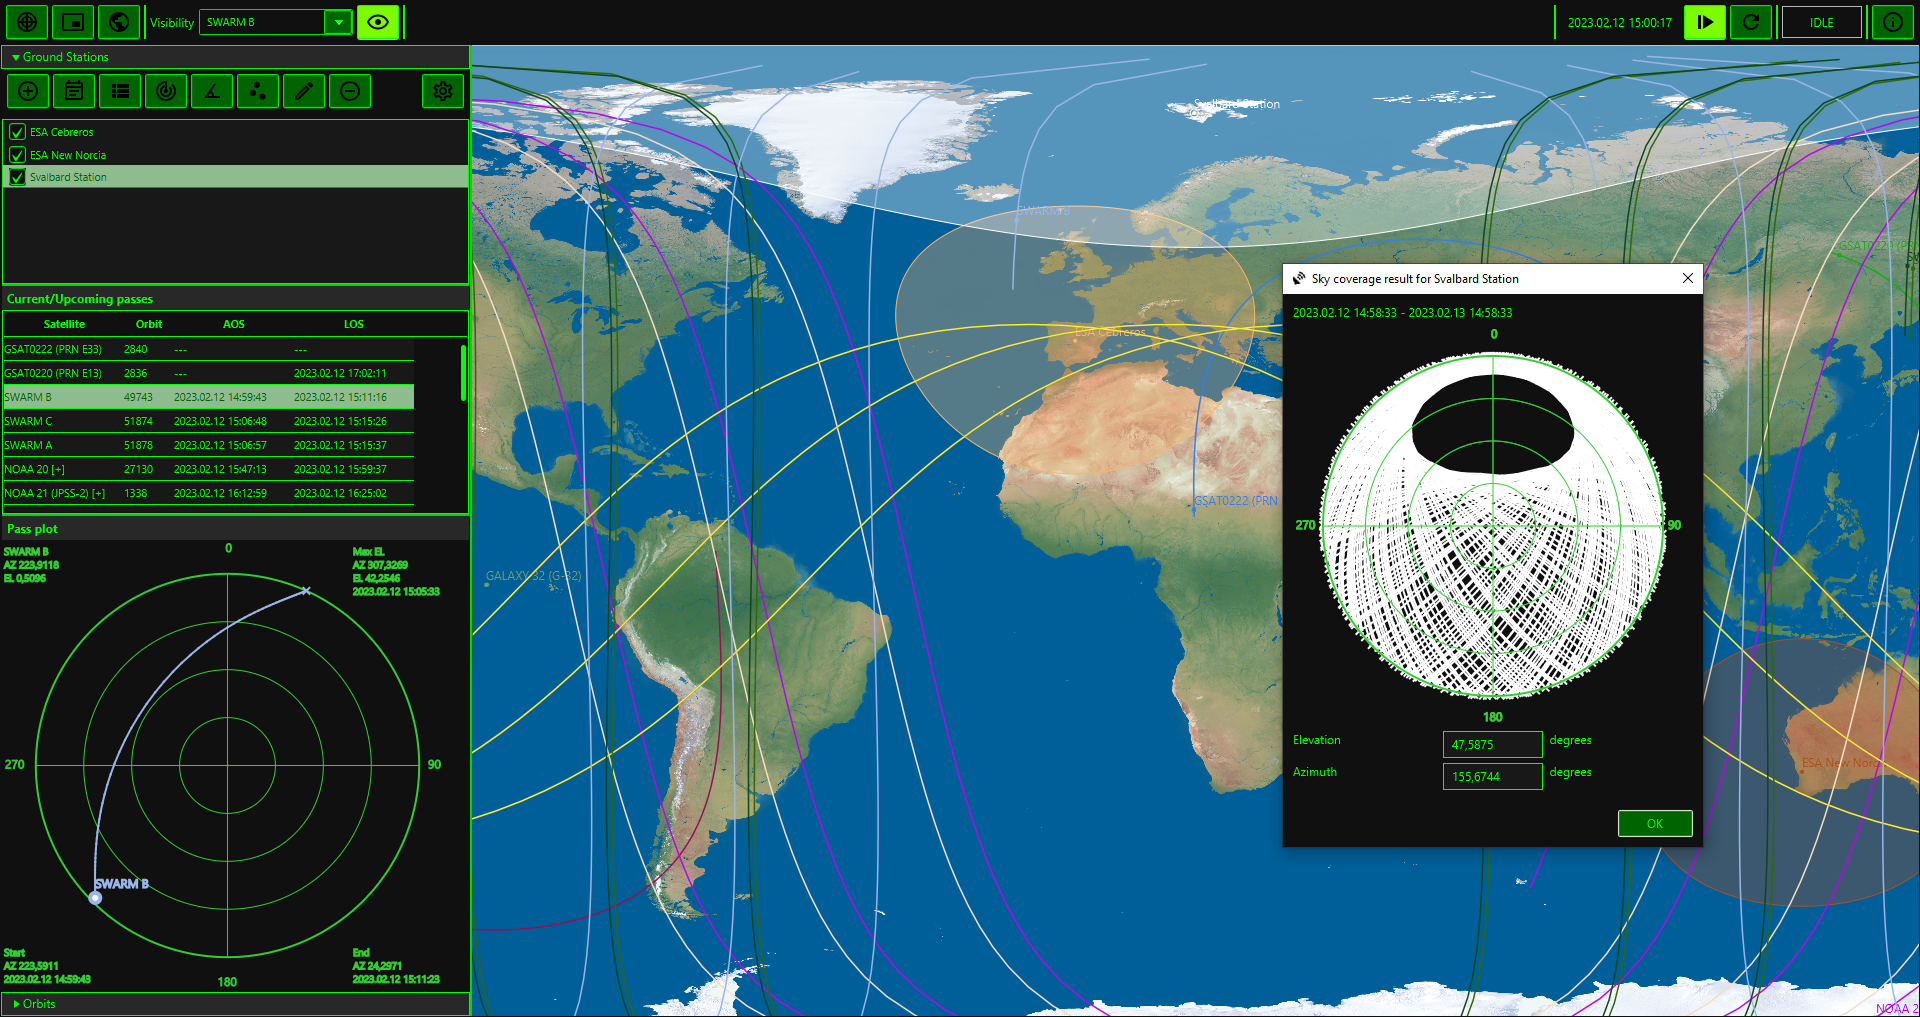
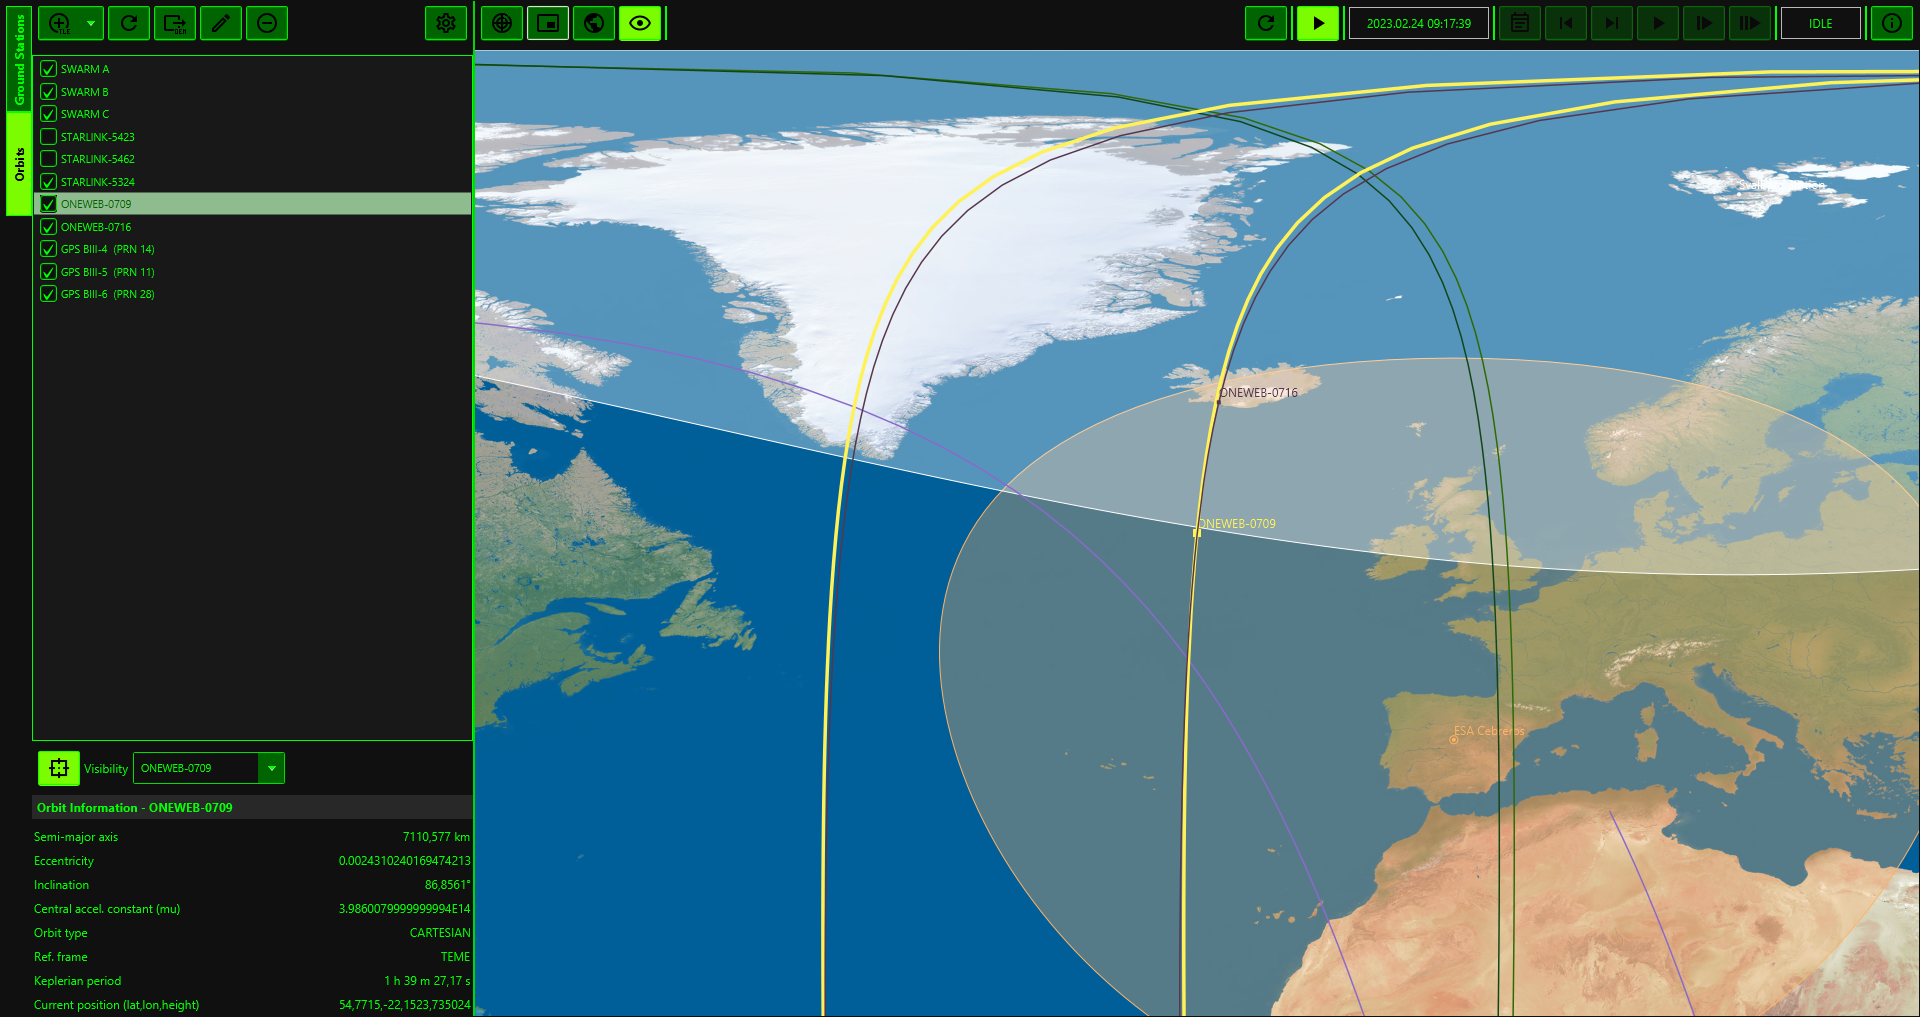
Dr. Orbiteex version 1.0

diff --git a/src/main/java/eu/dariolucia/drorbiteex/fxml/CssHolder.java b/src/main/java/eu/dariolucia/drorbiteex/fxml/CssHolder.java
@@ -22,8 +22,21 @@ import javafx.scene.Parent;
 
 public class CssHolder {
 
-    private static final SimpleStringProperty CSS = new SimpleStringProperty("/eu/dariolucia/drorbiteex/fxml/css/style.css");
-    // private static final SimpleStringProperty CSS = new SimpleStringProperty(null);
+    private static final SimpleStringProperty CSS;
+
+    public static final String DRORBITEEX_CSS_DEFAULT_THEME_KEY = "drorbiteex_css_default_theme";
+
+    static {
+        CSS = new SimpleStringProperty("/eu/dariolucia/drorbiteex/fxml/css/style.css");
+        // Disable the styling if the property below is detected
+        if(System.getProperty(DRORBITEEX_CSS_DEFAULT_THEME_KEY) != null) {
+            CSS.set(null);
+        }
+    }
+
+    private CssHolder() {
+        throw new IllegalCallerException("Not to be called");
+    }
 
     public static ReadOnlyStringProperty CSSProperty() {
         return CSS;

diff --git a/src/main/java/eu/dariolucia/drorbiteex/application/DrOrbiteex.java b/src/main/java/eu/dariolucia/drorbiteex/application/DrOrbiteex.java
@@ -48,7 +48,6 @@ public class DrOrbiteex extends Application {
     private static final String DEFAULT_ORBIT_CONFIG_LOCATION = DEFAULT_CONFIG_FOLDER + File.separator + DEFAULT_ORBIT_CONFIG_FILE_NAME;
     private static final String DEFAULT_GS_CONFIG_FILE_NAME = "groundstations.xml";
     private static final String DEFAULT_GS_CONFIG_LOCATION = DEFAULT_CONFIG_FOLDER + File.separator + DEFAULT_GS_CONFIG_FILE_NAME;
-
     private static final String CONFIG_FOLDER_LOCATION_KEY = "drorbiteex.config";
     private static final String OREKIT_FOLDER_NAME = "orekit-data";
 

diff --git a/README.md b/README.md
@@ -7,20 +7,21 @@ Dr. Orbiteex allows you to:
 - Define the location of your ground stations/points of interest on Earth
 - Import orbital data in the form of TLE (https://en.wikipedia.org/wiki/Two-line_element_set) or CCSDS OEM files (https://public.ccsds.org/Pubs/502x0b2c1e2.pdf), with a direct import
 function from the Celestrak TLE website (https://celestrak.org/NORAD/elements/)
-- Show the path of each orbit on a 3D view and a 2D view and the current location of each 
+- Show the path of each orbit on a 3D view and a 2D view and the current/specified location of each 
 satellite
-- Show the visibility windows over the defined ground stations/points of interest
+- Show the visibility windows over the defined ground stations/points of interest, export such data as CSV
 - Show the visibility circles from the defined ground stations by selecting an orbit of 
 interest
-- Show the tracking data (azimuth/elevation) related to a visibility window
+- Show the tracking data (azimuth/elevation) related to a visibility window, export such data as CSV
 - Export a TLE-based orbit to CCSDS OEM file (KVN and XML)
 - For a ground station/point of interest, export a set of visibility windows in the form of
 CCSDS Simple Schedule file (https://public.ccsds.org/Pubs/902x1b1c1.pdf)
 - Detect collinearity events with reference to a specific satellite/orbit
-- Calculate a sky coverage map for a given ground station/point of interest, with reference to a selectable set of satellites/orbits
+- Calculate sky coverage maps for a given ground station/point of interest, with reference to a selectable set of satellites/orbits
 
 ![AND](img/drorbiteex1.png "Dr. Orbiteex main window")
-![AND](img/drorbiteex2.png "Dr. Orbiteex sky coverage and map view")
+![AND](img/drorbiteex2.png "Dr. Orbiteex map view")
+![AND](img/drorbiteex3.png "Dr. Orbiteex sky coverage")
 
 ## Getting started
 Make sure you have Java >= 11 and Apache Maven installed.
@@ -63,3 +64,6 @@ In order to use the implementations, they must be announced in the module-info f
 - provides eu.dariolucia.drorbiteex.model.schedule.IScheduleExporter with [implementation];
 - provides eu.dariolucia.drorbiteex.model.schedule.IScheduleNameGenerator with [implementation];
 
+### Appearance
+If you want to run Dr. Orbiteex with the default style from OpenJFX, modify the launch script to append VM argument 
+-Ddrorbiteex_css_default_theme to the java invocation.
